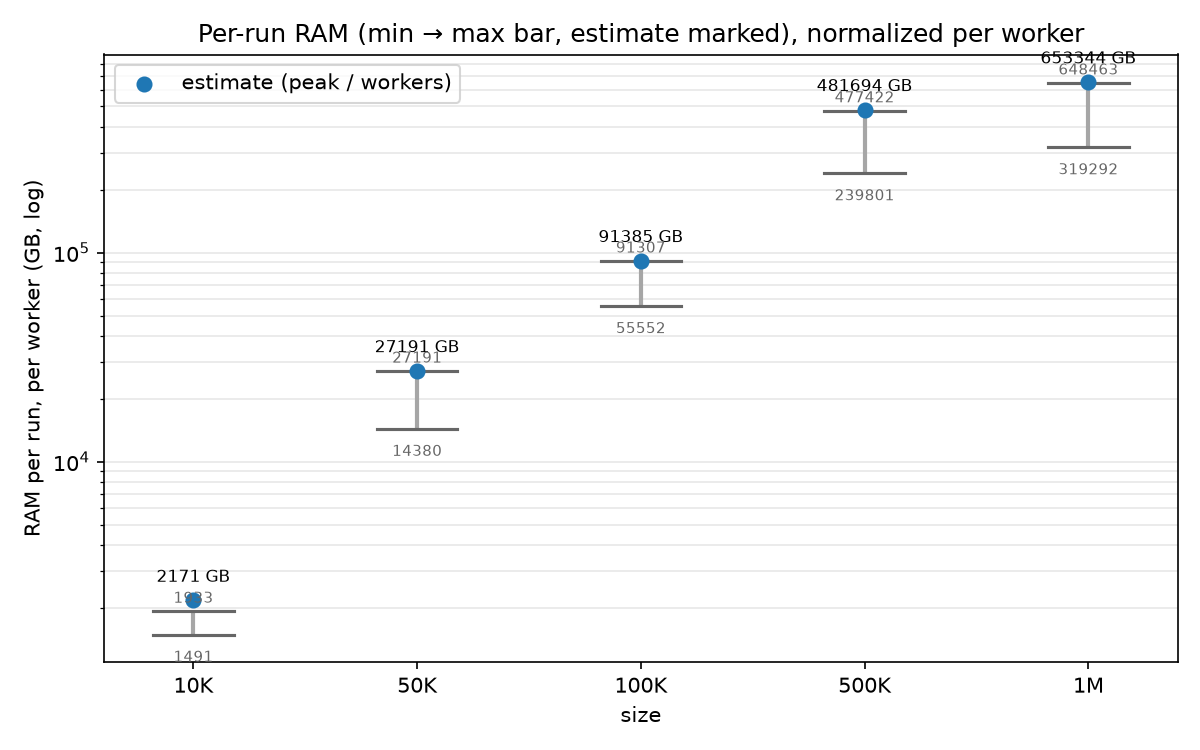
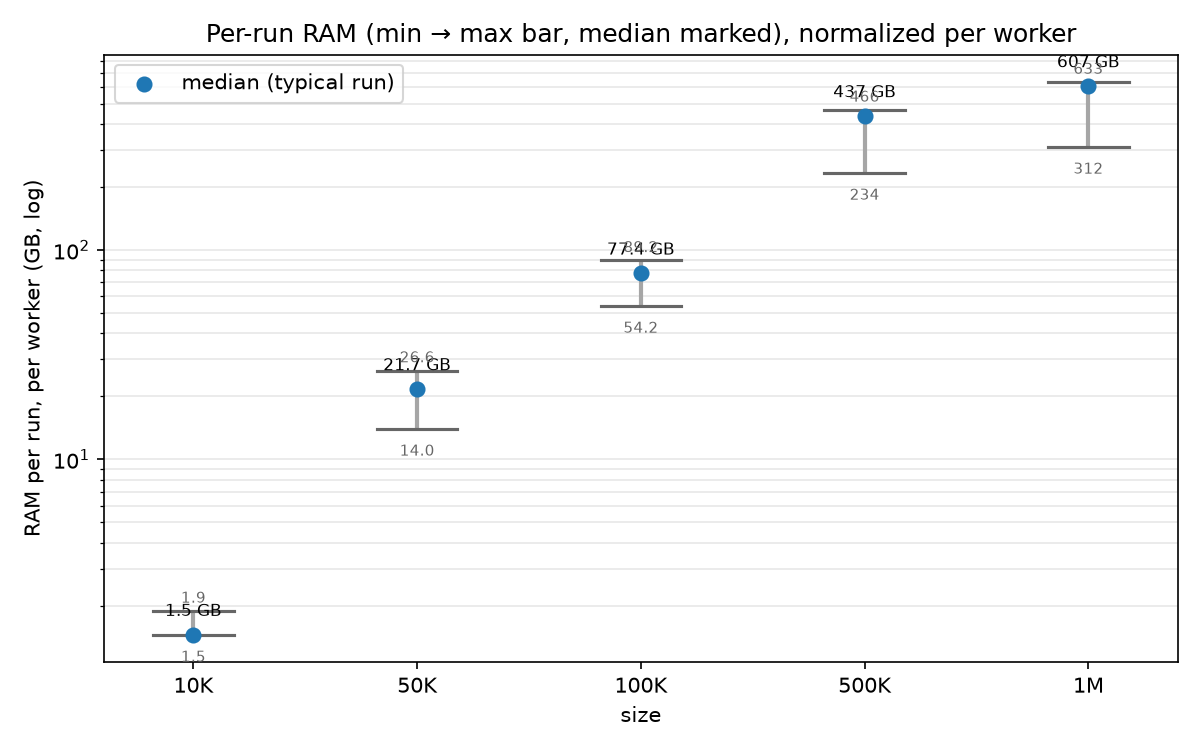
plot was not very good!

diff --git a/performance-analysis/plot.py b/performance-analysis/plot.py
@@ -1,14 +1,18 @@
 #!/usr/bin/env python3
-"""Plot per-run RAM, normalized per worker, with min/max range and the estimate.
+"""Plot per-run RAM, normalized per worker, with min/max range and the median.
 
-Reuses the parsing helpers from analyze.py. Produces one PNG per the min/max
-range + estimate, so the worker count no longer distorts the comparison
+Reuses the parsing helpers from analyze.py. All values are in GB and divided by
+the worker count, so the worker count no longer distorts the comparison
 (100K's ~1 TB peak was 12 workers × ~89 GB each).
+
+The "estimate" marker is the MEDIAN of the per-run slice peaks (÷ workers) —
+not the process peak ÷ workers — so it always lies inside the [min, max] range.
 """
 
 from __future__ import annotations
 
 import argparse
+import statistics
 from pathlib import Path
 
 import matplotlib
@@ -33,39 +37,35 @@ def main() -> None:
     ram = analyze.parse_ram(Path(args.ram_file))
     traces_dir = Path(args.traces_dir)
 
-    labels, mn, mx, est = [], [], [], []
+    labels, lo, hi, med = [], [], [], []
     for size, start, end in analyze.SIZES:
-        seg = [r for r in ram if start <= r[0] <= end + analyze.END_PAD]
-        if not seg:
-            continue
-        peak_mb = max(r[2] for r in seg)
         times = analyze.parse_times(traces_dir / size / "execution_times.ssv")
         if not times:
             continue
         workers = len(times)
         slices = analyze.run_slices(start, times)
         peaks = [max((r[2] for r in ram if s <= r[0] <= e), default=None) for s, e, w, r in slices]
-        vals = [p for p in peaks if p is not None]
+        vals = [p for p in peaks if p is not None]  # MB
         if not vals:
             continue
         labels.append(size)
-        mn.append(min(vals) / workers)
-        mx.append(max(vals) / workers)
-        est.append(peak_mb / workers)
+        lo.append(analyze.gb(min(vals)) / workers)               # GB per worker
+        hi.append(analyze.gb(max(vals)) / workers)
+        med.append(analyze.gb(statistics.median(vals)) / workers)
 
     x = range(len(labels))
     fig, ax = plt.subplots(figsize=(8, 5))
 
     # min -> max range, normalized per worker
-    for xi, lo, hi in zip(x, mn, mx):
-        ax.vlines(xi, lo, hi, color="0.65", lw=2, zorder=2)
-        ax.plot([xi - 0.18, xi + 0.18], [lo, lo], color="0.4", lw=1.5, zorder=2)
-        ax.plot([xi - 0.18, xi + 0.18], [hi, hi], color="0.4", lw=1.5, zorder=2)
+    for xi, l, h in zip(x, lo, hi):
+        ax.vlines(xi, l, h, color="0.65", lw=2, zorder=2)
+        ax.plot([xi - 0.18, xi + 0.18], [l, l], color="0.4", lw=1.5, zorder=2)
+        ax.plot([xi - 0.18, xi + 0.18], [h, h], color="0.4", lw=1.5, zorder=2)
 
-    # estimate marker (peak / workers), labeled
-    ax.scatter(x, est, color="C0", s=45, zorder=3, label="estimate (peak / workers)")
-    for xi, e in zip(x, est):
-        ax.annotate(f"{fmt(e)} GB", (xi, e), textcoords="offset points",
+    # median (typical run) marker, labeled
+    ax.scatter(x, med, color="C0", s=45, zorder=3, label="median (typical run)")
+    for xi, m in zip(x, med):
+        ax.annotate(f"{fmt(m)} GB", (xi, m), textcoords="offset points",
                     xytext=(0, 9), ha="center", fontsize=8)
 
     ax.set_yscale("log")
@@ -73,15 +73,15 @@ def main() -> None:
     ax.set_xticklabels(labels)
     ax.set_xlabel("size")
     ax.set_ylabel("RAM per run, per worker (GB, log)")
-    ax.set_title("Per-run RAM (min → max bar, estimate marked), normalized per worker")
+    ax.set_title("Per-run RAM (min → max bar, median marked), normalized per worker")
     ax.grid(axis="y", which="both", alpha=0.3)
     ax.legend(loc="upper left")
 
     # annotate the min and max numbers (small, grey)
-    for xi, lo, hi in zip(x, mn, mx):
-        ax.annotate(fmt(lo), (xi, lo), textcoords="offset points",
+    for xi, l, h in zip(x, lo, hi):
+        ax.annotate(fmt(l), (xi, l), textcoords="offset points",
                     xytext=(0, -13), ha="center", fontsize=7, color="0.4")
-        ax.annotate(fmt(hi), (xi, hi), textcoords="offset points",
+        ax.annotate(fmt(h), (xi, h), textcoords="offset points",
                     xytext=(0, 4), ha="center", fontsize=7, color="0.4")
 
     fig.tight_layout()

diff --git a/performance-analysis/analyze.py b/performance-analysis/analyze.py
@@ -170,37 +170,31 @@ def main() -> None:
     print("  not from configs/build-configs/final/*.json (edited after the runs).")
     print()
 
-    # ---- Table 2: RAM per run ----
-    print("=" * 86)
-    print("Table 2 - RAM per run")
-    print("=" * 86)
+    # ---- Table 2: RAM per run (normalized per worker) ----
+    print("=" * 80)
+    print("Table 2 - RAM per run (normalized per worker)")
+    print("=" * 80)
     print(
-        f"{'size':>5} {'workers':>8} {'runs':>5} "
-        f"{'est.run':>8} {'min':>9} {'median':>9} {'max':>9}  (GB)"
+        f"{'size':>5} {'workers':>8} {'runs':>5} {'min':>9} {'median':>9} {'max':>9}  (GB)"
     )
-    print("-" * 86)
-    for size, workers, runs, peak_mb in table1:
+    print("-" * 80)
+    for size, workers, runs, _ in table1:
         peaks = per_run.get(size)
         if not peaks or all(p is None for p in peaks):
             print(f"{size:>5} {workers:>8} {runs:>5}   (runs shorter than 10s sampling)")
             continue
-        vals = [gb(p) for p in peaks if p is not None]
+        vals = [gb(p) / workers for p in peaks if p is not None]
         n_ok = len(vals)
-        est = gb(peak_mb) / workers if workers else float("nan")
         print(
             f"{size:>5} {workers:>8} {runs:>5} "
-            f"{est:>8.1f} {min(vals):>9.2f} {statistics.median(vals):>9.2f} {max(vals):>9.2f}"
+            f"{min(vals):>9.2f} {statistics.median(vals):>9.2f} {max(vals):>9.2f}"
             f"   ({n_ok}/{runs} runs resolved)"
         )
     print()
-    print("  est.run = peak-per-process / workers: rough estimate of ONE isolated run,")
-    print("            assuming per-run memory is additive across workers.")
-    print("  min/median/max = peak RSS during each run's time slice (from")
-    print("            execution_times.ssv). For workers > 1 the slices overlap, so")
-    print("            these still include concurrent + accumulated memory; the max")
-    print("            tends to equal the process peak.")
-    print("  RSS accumulates across runs (state reused, not freed), so the per-run")
-    print("  peak grows run-over-run -- min = first run, max = last run.")
+    print("  Each value = peak RSS during a run's time slice, divided by workers.")
+    print("  min/median/max are the first / typical / last runs (RSS accumulates).")
+    print("  For workers > 1 the slices overlap, so this is an upper bound on an")
+    print("  isolated single run (shared topology isn't separated out).")
 
     if args.out_csv:
         out = Path(args.out_csv)

diff --git a/performance-analysis/README.md b/performance-analysis/README.md
@@ -48,24 +48,24 @@ trace mtime (last write, ≈ end).
 `workers`/`runs` are read from `execution_times.ssv` (what actually ran), not
 from `configs/build-configs/final/*.json` (edited after the runs).
 
-### Table 2 — RAM per run
+### Table 2 — RAM per run (normalized per worker)
 
-| size | est. single run (GB) | per-run min → max (GB) |
-|------|----------------------|------------------------|
-| 10K  | 2.1                  | 23.3 → 30.2            |
-| 50K  | 26.6                 | 224.7 → 424.9          |
-| 100K | 89.2                 | 651.0 → 1070.0         |
-| 500K | 470.4                | 468.4 → 932.5          |
-| 1M   | 638.0                | 311.8 → 633.3          |
+| size | workers | min | median | max (GB) |
+|------|---------|-----|--------|-----------|
+| 10K  | 16      | 1.46  | 1.46   | 1.89      |
+| 50K  | 16      | 14.04 | 21.70  | 26.55     |
+| 100K | 12      | 54.25 | 77.38  | 89.17     |
+| 500K | 2       | 234.18| 436.77 | 466.23    |
+| 1M   | 1       | 311.81| 607.22 | 633.26    |
 
-- **est. single run** = peak-per-process ÷ workers, a rough estimate of one
-  isolated run (assumes per-run memory is additive across workers).
-- **per-run min → max** = peak RSS during each run's time slice. `min` is the
-  first run, `max` the last run.
+Each value = peak RSS during a run's time slice, divided by the worker count.
+`min`/`median`/`max` are the first / typical / last runs (RSS accumulates across
+runs). For `workers > 1` the slices overlap, so these are an upper bound on an
+isolated single run (shared topology isn't separated out).
 
 The process peaks look non-monotonic (100K > 500K > 1M) because they include
 worker concurrency (12 vs 2 vs 1 workers). Normalized per worker, the
-single-run footprint is monotonic: 2.1 → 638 GB.
+single-run footprint is monotonic: 1.5 → 633 GB.
 
 ## Caveats
 
